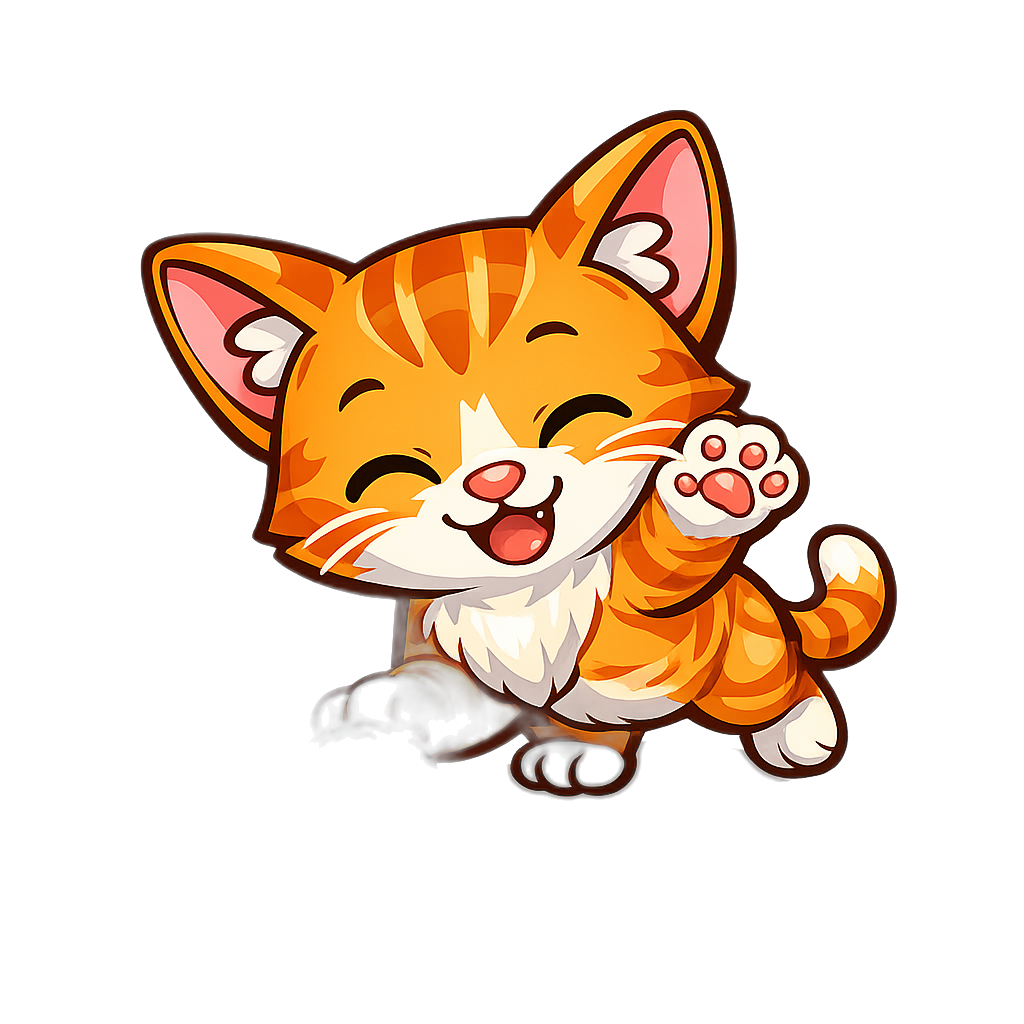
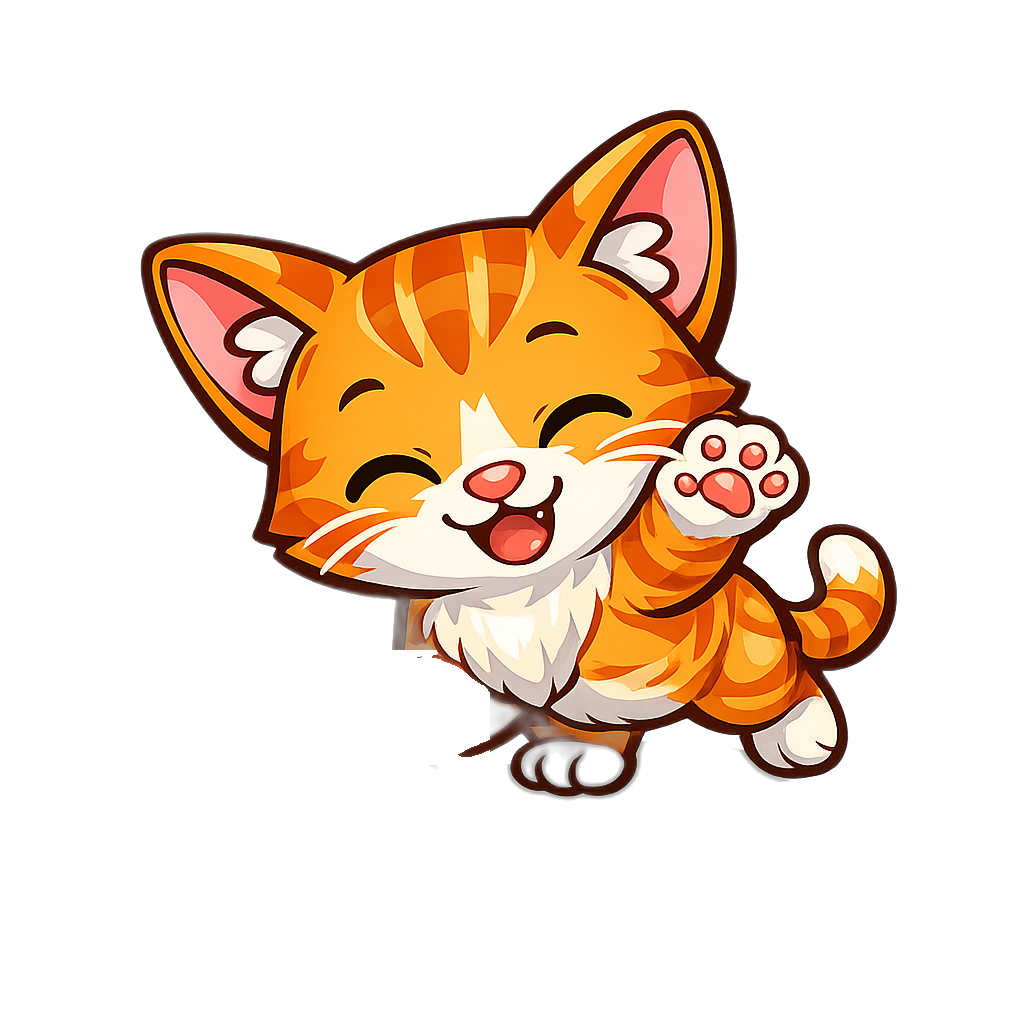
Fix cat-playing haze artifact, enlarge scene props, animate ball on play
- cat-playing.png had a translucent haze artifact (leftover from the
  original background-removal pass) near a hind leg that looked like a
  paw fading in and out depending on background color. Cleaned the
  low-alpha fringe pixels in that region, leaving the crisp tucked paw
  intact.
- House and ground-line prop icons were too small relative to the pet;
  scaled both up so the scene reads as proportionate.
- Owned toys now bounce in place while the "playing" action is active,
  so the ball/yarn/etc actually look like they're being played with
  instead of sitting static in the background.

Changed region(s): [[0.2812, 0.625, 0.5, 0.75]]

diff --git a/apps/mobile/src/components/PetScene.tsx b/apps/mobile/src/components/PetScene.tsx
@@ -1,5 +1,7 @@
 import type { ReactNode } from "react";
+import { useEffect } from "react";
 import { Text, View } from "react-native";
+import Animated, { Easing, useAnimatedStyle, useSharedValue, withRepeat, withSequence, withTiming } from "react-native-reanimated";
 import Svg, { Circle, Defs, Ellipse, LinearGradient, Path, Polygon, RadialGradient, Rect, Stop } from "react-native-svg";
 import { SHOP_ITEMS } from "@/lib/petShop";
 import type { PetSpecies } from "@/types/domain";
@@ -7,12 +9,14 @@ import type { PetSpecies } from "@/types/domain";
 interface Props {
   species: PetSpecies;
   ownedItems: string[]; // toys + in-stock food ids, placed as props beside the house
+  isPlaying?: boolean; // bounces owned toys while the "playing" action is active
   width: number;
   height: number;
   children: ReactNode;
 }
 
 const ITEM_ICON: Record<string, string> = Object.fromEntries(SHOP_ITEMS.map((item) => [item.id, item.icon]));
+const ITEM_KIND: Record<string, string> = Object.fromEntries(SHOP_ITEMS.map((item) => [item.id, item.kind]));
 
 // Fixed ground-line slots (not random per-render) — kept in a tight cluster
 // on the same grass band just in front of the pet, so items read as a toy
@@ -30,7 +34,39 @@ function isNightNow() {
   return hour < 6 || hour >= 19;
 }
 
-export function PetScene({ species, ownedItems, width, height, children }: Props) {
+function SceneProp({ icon, slot, bouncing }: { icon: string; slot: (typeof ITEM_SLOTS)[number]; bouncing: boolean }) {
+  const bounce = useSharedValue(0);
+
+  useEffect(() => {
+    if (bouncing) {
+      bounce.value = withRepeat(
+        withSequence(
+          withTiming(1, { duration: 260, easing: Easing.out(Easing.quad) }),
+          withTiming(0, { duration: 260, easing: Easing.in(Easing.quad) }),
+        ),
+        -1,
+        true,
+      );
+    } else {
+      bounce.value = withTiming(0, { duration: 200 });
+    }
+  }, [bouncing]);
+
+  const style = useAnimatedStyle(() => ({
+    transform: [{ translateY: -bounce.value * 14 }, { rotate: `${bounce.value * 16 - 8}deg` }],
+  }));
+
+  return (
+    <View style={{ position: "absolute", alignItems: "center", ...slot }}>
+      <Animated.View style={style}>
+        <Text style={{ fontSize: 26 }}>{icon}</Text>
+      </Animated.View>
+      <View style={{ width: 16, height: 4, borderRadius: 4, backgroundColor: "#00000030" }} />
+    </View>
+  );
+}
+
+export function PetScene({ species, ownedItems, isPlaying = false, width, height, children }: Props) {
   const night = isNightNow();
   const skyTop = night ? "#0B1224" : "#7DD3FC";
   const skyBottom = night ? "#1E1B4B" : "#BAE6FD";
@@ -38,9 +74,9 @@ export function PetScene({ species, ownedItems, width, height, children }: Props
   const grassBottom = night ? "#142A1E" : "#2F5F3E";
 
   const groundY = height * 0.78;
-  const houseW = width * 0.36;
-  const houseH = height * 0.32;
-  const houseX = width * 0.74;
+  const houseW = width * 0.44;
+  const houseH = height * 0.38;
+  const houseX = width * 0.75;
   const houseBaseY = groundY + 4;
 
   return (
@@ -82,10 +118,10 @@ export function PetScene({ species, ownedItems, width, height, children }: Props
 
         {species === "dog" ? (
           <>
-            <Rect x={houseX - houseW / 2} y={houseBaseY - houseH * 0.6} width={houseW} height={houseH * 0.6} rx={4} fill="#92400E" />
-            <Rect x={houseX - houseW / 2} y={houseBaseY - houseH * 0.28} width={houseW} height={2} fill="#78350F" opacity={0.6} />
+            <Rect x={houseX - houseW / 2} y={houseBaseY - houseH * 0.6} width={houseW} height={houseH * 0.6} rx={5} fill="#92400E" />
+            <Rect x={houseX - houseW / 2} y={houseBaseY - houseH * 0.28} width={houseW} height={2.5} fill="#78350F" opacity={0.6} />
             <Polygon
-              points={`${houseX - houseW / 2 - 8},${houseBaseY - houseH * 0.6} ${houseX + houseW / 2 + 8},${houseBaseY - houseH * 0.6} ${houseX},${houseBaseY - houseH}`}
+              points={`${houseX - houseW / 2 - 10},${houseBaseY - houseH * 0.6} ${houseX + houseW / 2 + 10},${houseBaseY - houseH * 0.6} ${houseX},${houseBaseY - houseH}`}
               fill="#B45309"
             />
             <Path
@@ -95,24 +131,26 @@ export function PetScene({ species, ownedItems, width, height, children }: Props
           </>
         ) : (
           <>
-            <Rect x={houseX - houseW / 2} y={houseBaseY - houseH * 0.56} width={houseW} height={houseH * 0.56} rx={12} fill="#7C3AED" />
+            <Rect x={houseX - houseW / 2} y={houseBaseY - houseH * 0.56} width={houseW} height={houseH * 0.56} rx={14} fill="#7C3AED" />
             <Polygon
-              points={`${houseX - houseW / 2 - 6},${houseBaseY - houseH * 0.56} ${houseX + houseW / 2 + 6},${houseBaseY - houseH * 0.56} ${houseX + houseW / 2 + 6},${houseBaseY - houseH * 0.56 - houseH * 0.15} ${houseX - houseW / 2 - 6},${houseBaseY - houseH * 0.56 - houseH * 0.15}`}
+              points={`${houseX - houseW / 2 - 8},${houseBaseY - houseH * 0.56} ${houseX + houseW / 2 + 8},${houseBaseY - houseH * 0.56} ${houseX + houseW / 2 + 8},${houseBaseY - houseH * 0.56 - houseH * 0.15} ${houseX - houseW / 2 - 8},${houseBaseY - houseH * 0.56 - houseH * 0.15}`}
               fill="#5B21B6"
             />
             <Circle cx={houseX} cy={houseBaseY - houseH * 0.3} r={houseW * 0.14} fill="#1E1233" />
             <Circle cx={houseX} cy={houseBaseY - houseH * 0.3} r={houseW * 0.14} fill="none" stroke="#5B21B6" strokeWidth={3} />
-            <Circle cx={houseX + houseW * 0.34} cy={houseBaseY - houseH * 0.62} r={4} fill="#5B21B6" />
-            <Circle cx={houseX + houseW * 0.34} cy={houseBaseY - houseH * 0.75} r={5} fill="#7C3AED" />
+            <Circle cx={houseX + houseW * 0.34} cy={houseBaseY - houseH * 0.62} r={4.5} fill="#5B21B6" />
+            <Circle cx={houseX + houseW * 0.34} cy={houseBaseY - houseH * 0.76} r={5.5} fill="#7C3AED" />
           </>
         )}
       </Svg>
 
       {ownedItems.slice(0, ITEM_SLOTS.length).map((itemId, i) => (
-        <View key={itemId} style={{ position: "absolute", alignItems: "center", ...ITEM_SLOTS[i] }}>
-          <Text style={{ fontSize: 18 }}>{ITEM_ICON[itemId] ?? "🧸"}</Text>
-          <View style={{ width: 14, height: 4, borderRadius: 4, backgroundColor: "#00000030" }} />
-        </View>
+        <SceneProp
+          key={itemId}
+          icon={ITEM_ICON[itemId] ?? "🧸"}
+          slot={ITEM_SLOTS[i]}
+          bouncing={isPlaying && ITEM_KIND[itemId] === "toy"}
+        />
       ))}
 
       <View style={{ flex: 1, alignItems: "center", justifyContent: "flex-end", paddingBottom: 12 }}>{children}</View>

diff --git a/apps/mobile/app/(tabs)/buddy.tsx b/apps/mobile/app/(tabs)/buddy.tsx
@@ -189,7 +189,7 @@ export default function BuddyScreen() {
         </View>
       </View>
 
-      <PetScene species={pet.species} ownedItems={ownedItems} width={SCENE_WIDTH} height={280}>
+      <PetScene species={pet.species} ownedItems={ownedItems} isPlaying={activeAction === "playing"} width={SCENE_WIDTH} height={280}>
         <StudyPet
           species={pet.species}
           energy={energy}
